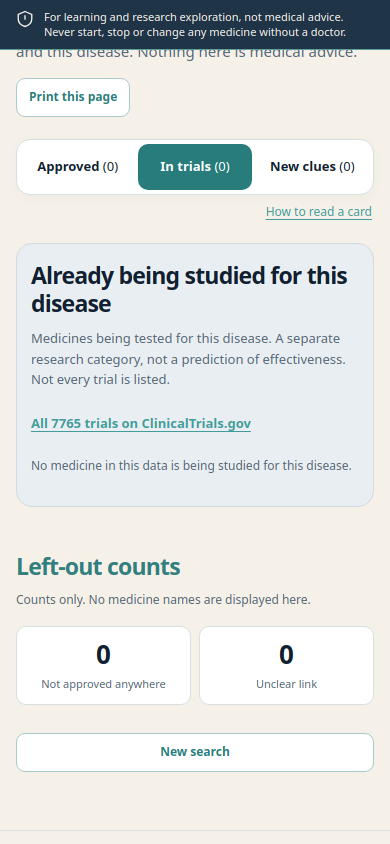
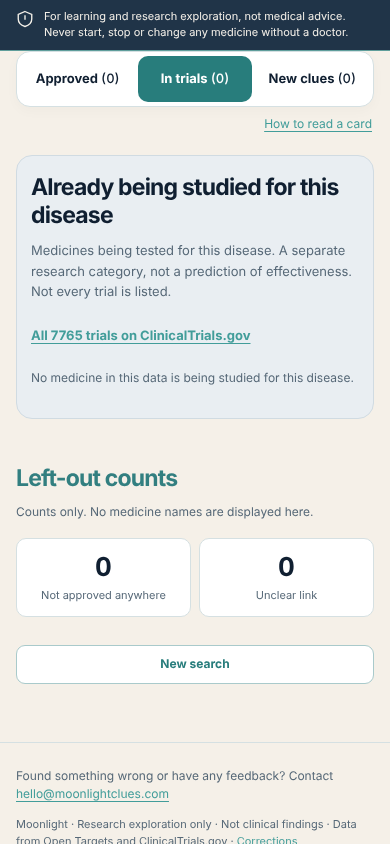
Ticket 3.32: move the report note into the facts fold, name ClinicalTrials.gov in the guide
Claude-Session: https://claude.ai/code/session_01RZLpZMH7oyLTozEU9KLkwi

diff --git a/web/index.html b/web/index.html
@@ -281,7 +281,6 @@ small,.fine{font-size:12px}.muted{color:var(--muted)}
 /* the key: ten small chips, a gold letter and a few words each. Two columns at every width,
    so every row is full (ticket 3.9). */
 .key{display:grid;grid-template-columns:repeat(2,minmax(0,1fr));gap:8px;margin-top:16px}
-.key-note{margin-top:10px;font-size:13px;line-height:1.5;color:var(--muted)}
 /* Ticket T11. A picture of one trial row, using the same classes as a row on a card. Not a link. */
 .guide-trial{background:var(--paper);border:1px solid var(--line);border-left:4px solid var(--teal);border-radius:var(--radius);padding:6px 16px 4px;margin-top:16px;box-shadow:0 4px 13px #101F3107}
 .guide-trial-line{margin:10px 0 0;color:var(--muted);font-size:14px;line-height:1.45}
@@ -657,7 +656,6 @@ body.registering>:not(.register){display:none!important}
         <li><span class="k" aria-hidden="true">I</span><span>Where the fact comes from</span></li>
         <li><span class="k" aria-hidden="true">J</span><span>Tell us if something is wrong</span></li>
       </ul>
-      <p class="key-note">We read every report.<br>Nothing about you is kept.</p>
     </section>
 
     <section aria-labelledby="guide-limits-title">
@@ -683,10 +681,11 @@ body.registering>:not(.register){display:none!important}
       <details class="wider-box">
         <summary id="guide-doctors-title">For doctors: how far to trust each part</summary>
         <ul class="limits">
-          <li><div><b>Source.</b> <span>Open Targets Platform.</span></div></li>
+          <li><div><b>Source.</b> <span>Open Targets Platform. Trial details from ClinicalTrials.gov.</span></div></li>
           <li><div><b>“Approved”.</b> <span>In at least one country, per the database. Not a measure of efficacy.</span></div></li>
           <li><div><b>Left out.</b> <span>Withdrawn anywhere, or approved nowhere: counted, never named. Unclear link to the disease: counted separately.</span></div></li>
           <li><div><b>Wider and narrower diseases.</b> <span>Shown with a label, each in its own folded box.</span></div></li>
+          <li><div><b>Trials.</b> <span>Matched to a medicine by its exact name. A finished trial is a record, not a result.</span></div></li>
           <li><div><b>Known gaps.</b> <span>A missing medicine may be withdrawn somewhere, filed further away, or not recorded yet.</span></div></li>
           <li><div><b>Weak proof.</b> <span>Japan-list-only approvals say so. Approvals with no regulator record say so. Confirmed mistakes carry a red warning.</span></div></li>
           <li><div><b>Ranking.</b> <span>Link strength across the top 25 proteins. One protein machine counts once.</span></div></li>
@@ -698,9 +697,11 @@ body.registering>:not(.register){display:none!important}
         <summary id="guide-facts-title">Where the facts come from</summary>
         <ul class="limits">
           <li><div><b>Facts.</b> <span>Open Targets Platform, an open research database.</span></div></li>
+          <li><div><b>Trials.</b> <span>ClinicalTrials.gov, the US public register of clinical studies.</span></div></li>
           <li><div><b>Words.</b> <span>What you type is sent to Gemini, so type no names or private details.</span></div></li>
           <li><div><b>Visits.</b> <span>Counted with Umami. No cookies. Never the disease or anything you type.</span></div></li>
           <li><div><b>Protein descriptions.</b> <span>Written by UniProt, read through Open Targets. CC BY 4.0.</span></div></li>
+          <li><div><b>Reports.</b> <span>We read every report. Nothing about you is kept.</span></div></li>
         </ul>
       </details>
     </div>

diff --git a/tests/test_guide_report_trials_3_32.py b/tests/test_guide_report_trials_3_32.py
@@ -1,0 +1,149 @@
+"""Ticket 3.32. Two fixes to the "how to read" guide, from Shreshth's phone pass.
+
+1. The floating report note under the A to J key is gone. Its words are now the
+   last line of "Where the facts come from".
+2. ClinicalTrials.gov is named as a source, in both folded parts.
+
+Every new line is checked word for word. The page is read from the file; the
+browser check opens it at 390 px with every network call refused. No network.
+"""
+
+import json
+import re
+import shutil
+import subprocess
+from pathlib import Path
+
+import pytest
+
+from test_api import guide_of, plain
+from test_condensed_guide import DOCTORS_TITLE, FACTS_TITLE, fold, lines_of
+
+ROOT = Path(__file__).resolve().parent.parent
+PAGE_FILE = ROOT / "web" / "index.html"
+PAGE = PAGE_FILE.read_text(encoding="utf-8")
+GUIDE = guide_of(PAGE)
+
+DOCTORS_NEW = [
+    ("Source.", "Open Targets Platform. Trial details from ClinicalTrials.gov."),
+    ("Trials.", "Matched to a medicine by its exact name. A finished trial is a record, not a result."),
+]
+FACTS_NEW = [
+    ("Trials.", "ClinicalTrials.gov, the US public register of clinical studies."),
+    ("Reports.", "We read every report. Nothing about you is kept."),
+]
+
+
+def test_the_doctors_fold_has_the_new_source_line_and_the_new_trials_line_in_place():
+    lines = lines_of(fold(GUIDE, DOCTORS_TITLE)[1])
+    labels = [label for label, _ in lines]
+    assert lines[labels.index("Source.")] == DOCTORS_NEW[0]
+    assert lines[labels.index("Trials.")] == DOCTORS_NEW[1]
+    assert labels.index("Trials.") == labels.index("Wider and narrower diseases.") + 1
+    assert labels.count("Trials.") == 1 and len(lines) == 9
+
+
+def test_the_facts_fold_has_the_trials_line_after_facts_and_the_report_line_last():
+    lines = lines_of(fold(GUIDE, FACTS_TITLE)[1])
+    labels = [label for label, _ in lines]
+    assert lines[labels.index("Facts.") + 1] == FACTS_NEW[0]
+    assert lines[-1] == FACTS_NEW[1]
+    assert labels.count("Reports.") == 1 and len(lines) == 6
+
+
+def test_the_new_lines_are_written_once_each_in_the_lists_own_style():
+    for label, words in DOCTORS_NEW[1:] + FACTS_NEW:
+        assert "<li><div><b>%s</b> <span>%s</span></div></li>" % (label, words) in PAGE
+    assert PAGE.count("We read every report. Nothing about you is kept.") == 1
+
+
+def test_no_key_note_is_left_in_the_page_or_its_styles():
+    assert "key-note" not in PAGE
+    assert "We read every report.<br>" not in PAGE
+
+
+def test_the_key_is_the_last_thing_in_the_card_part():
+    card_part = GUIDE[GUIDE.index('id="guide-card"'):]
+    card_part = card_part[:card_part.index("</section>")]
+    assert re.search(r"</ul>\s*$", card_part)
+    key = card_part[card_part.index('<ul class="key">'):]
+    assert re.findall(r'aria-hidden="true">([A-Z])</span>', key)[-1] == "J"
+
+
+BROWSER_SCRIPT = r"""
+"use strict";
+const fs = require("fs");
+const { chromium } = require("playwright");
+const PAGE = fs.readFileSync(process.argv[1], "utf-8");
+const SITE = "http://moonlight.test";
+(async () => {
+  const browser = await chromium.launch();
+  const context = await browser.newContext({ viewport: { width: 390, height: 844 } });
+  const page = await context.newPage();
+  const errors = [];
+  page.on("pageerror", problem => errors.push(String(problem)));
+  await context.route("**/*", route => {
+    const url = route.request().url();
+    if (url === SITE + "/" || url.startsWith(SITE + "/?"))
+      return route.fulfill({ contentType: "text/html; charset=utf-8", body: PAGE });
+    return route.abort();
+  });
+  await page.goto(SITE + "/?guide=1");
+  await page.waitForSelector("#guide", { state: "visible" });
+  const shut = await page.evaluate(() => document.documentElement.scrollWidth > document.documentElement.clientWidth);
+  await page.evaluate(() => document.querySelectorAll("#guide details").forEach(d => { d.open = true; }));
+  await page.waitForTimeout(200);
+  const out = await page.evaluate(() => {
+    const key = document.querySelector("#guide-card .key");
+    const lines = id => [...document.getElementById(id).closest("details").querySelectorAll("li")]
+      .map(li => li.innerText.replace(/\s+/g, " ").trim());
+    return {
+      keyLast: key.lastElementChild.innerText.replace(/\s+/g, " ").trim(),
+      keyNext: key.nextElementSibling && key.nextElementSibling.tagName,
+      keyNoteCount: document.querySelectorAll(".key-note").length,
+      sectionEndsWithKey: document.querySelector("#guide-card").lastElementChild === key,
+      doctors: lines("guide-doctors-title"),
+      facts: lines("guide-facts-title"),
+      sideways: document.documentElement.scrollWidth > document.documentElement.clientWidth,
+      wide: [...document.querySelectorAll("#guide *")].filter(el => el.getBoundingClientRect().right > innerWidth + 0.5).length,
+    };
+  });
+  out.sidewaysShut = shut;
+  out.errors = errors;
+  await browser.close();
+  console.log(JSON.stringify(out));
+})().catch(problem => { console.error(problem); process.exit(1); });
+"""
+
+
+@pytest.fixture(scope="module")
+def seen():
+    node = shutil.which("node")
+    if not node or subprocess.run(
+            [node, "-e", "require('playwright')"], capture_output=True).returncode:
+        pytest.skip("needs node with playwright to open a real browser")
+    run = subprocess.run([node, "-e", BROWSER_SCRIPT, str(PAGE_FILE)],
+                         capture_output=True, text=True, timeout=240, cwd=str(ROOT))
+    assert run.returncode == 0, run.stderr[-3000:]
+    return json.loads(run.stdout)
+
+
+def test_browser_390_the_key_ends_at_j_with_nothing_under_it(seen):
+    assert seen["errors"] == []
+    assert seen["keyLast"] == "J Tell us if something is wrong"
+    assert seen["keyNext"] is None and seen["sectionEndsWithKey"]
+    assert seen["keyNoteCount"] == 0
+
+
+def test_browser_390_both_folds_show_the_new_lines_word_for_word(seen):
+    for label, words in DOCTORS_NEW:
+        assert "%s %s" % (label, words) in seen["doctors"]
+    for label, words in FACTS_NEW:
+        assert "%s %s" % (label, words) in seen["facts"]
+    assert seen["facts"][-1] == "Reports. We read every report. Nothing about you is kept."
+
+
+def test_browser_390_no_sideways_scroll_folds_shut_or_open(seen):
+    assert not seen["sidewaysShut"]
+    assert not seen["sideways"]
+    assert seen["wide"] == 0

diff --git a/tests/test_condensed_guide.py b/tests/test_condensed_guide.py
@@ -76,11 +76,14 @@ CANNOT = [
 ]
 DOCTORS_TITLE = "For doctors: how far to trust each part"
 DOCTORS = [
-    ("Source.", "Open Targets Platform."),
+    # Ticket 3.32: ClinicalTrials.gov is named as the source of trial details.
+    ("Source.", "Open Targets Platform. Trial details from ClinicalTrials.gov."),
     ("“Approved”.", "In at least one country, per the database. Not a measure of efficacy."),
     ("Left out.", "Withdrawn anywhere, or approved nowhere: counted, never named. "
                   "Unclear link to the disease: counted separately."),
     ("Wider and narrower diseases.", "Shown with a label, each in its own folded box."),
+    # Ticket 3.32: new line.
+    ("Trials.", "Matched to a medicine by its exact name. A finished trial is a record, not a result."),
     ("Known gaps.", "A missing medicine may be withdrawn somewhere, filed further away, "
                     "or not recorded yet."),
     ("Weak proof.", "Japan-list-only approvals say so. Approvals with no regulator "
@@ -93,11 +96,15 @@ NOT_REFERENCE = "Moonlight is not a prescribing reference."
 FACTS_TITLE = "Where the facts come from"
 FACTS = [
     ("Facts.", "Open Targets Platform, an open research database."),  # ticket T0
+    # Ticket 3.32: new line, straight after Facts.
+    ("Trials.", "ClinicalTrials.gov, the US public register of clinical studies."),
     # Ticket 3.8, commit B: the sentence about explanations is no longer true and is gone.
     ("Words.", "What you type is sent to Gemini, so type no names or private details."),
     ("Visits.", "Counted with Umami. No cookies. Never the disease or anything you type."),
     # Ticket 3.8: Kashish's credit line, 23 Nov 2026.
     ("Protein descriptions.", "Written by UniProt, read through Open Targets. CC BY 4.0."),
+    # Ticket 3.32: the report note moved here from under the A to J key. Last line.
+    ("Reports.", "We read every report. Nothing about you is kept."),
 ]
 STRIP = "Test a condition you know well. Tell us what is missing or wrong."
 
@@ -282,14 +289,14 @@ def test_each_fold_is_closed_at_first_and_uses_the_wider_group_pattern(page, gui
     assert "tabindex" not in guide
 
 
-def test_the_fold_for_doctors_holds_these_eight_lines_then_the_sentence_set_apart(guide):
+def test_the_fold_for_doctors_holds_these_nine_lines_then_the_sentence_set_apart(guide):
     _, inside = fold(guide, DOCTORS_TITLE)
     assert lines_of(inside) == DOCTORS
     assert inside.index("</ul>") < inside.index('<p class="not-reference">%s</p>' % NOT_REFERENCE)
     assert guide.count(NOT_REFERENCE) == 1
 
 
-def test_the_fold_of_sources_holds_these_four_lines(guide):
+def test_the_fold_of_sources_holds_these_six_lines(guide):
     _, inside = fold(guide, FACTS_TITLE)
     assert lines_of(inside) == FACTS
 

diff --git a/tests/test_guide_and_front_page.py b/tests/test_guide_and_front_page.py
@@ -66,11 +66,14 @@ MAIL_LINK = '<a href="mailto:%s">%s</a>' % (ADDRESS, ADDRESS)
 DOCTORS = "For doctors: how far to trust each part"
 # Kashish's words, 16 Nov. Each was checked against the code on main.
 DOCTOR_POINTS = [
-    "Source. Open Targets Platform.",
+    # Ticket 3.32: ClinicalTrials.gov named as the source of trial details.
+    "Source. Open Targets Platform. Trial details from ClinicalTrials.gov.",
     "“Approved”. In at least one country, per the database. Not a measure of efficacy.",
     "Left out. Withdrawn anywhere, or approved nowhere: counted, never named. "
     "Unclear link to the disease: counted separately.",
     "Wider and narrower diseases. Shown with a label, each in its own folded box.",
+    # Ticket 3.32: new line.
+    "Trials. Matched to a medicine by its exact name. A finished trial is a record, not a result.",
     "Known gaps. A missing medicine may be withdrawn somewhere, filed further away, "
     "or not recorded yet.",
     "Weak proof. Japan-list-only approvals say so. Approvals with no regulator "
@@ -239,7 +242,7 @@ def test_for_doctors_holds_kashishs_points_word_for_word_in_the_same_list_style(
     assert section.count('<ul class="limits">') == 1
     items = re.findall(r"(?s)<li>(.*?)</li>", section)
     assert [plain(item) for item in items] == DOCTOR_POINTS
-    assert len(items) == 8
+    assert len(items) == 9
     for item, words in zip(items, DOCTOR_POINTS):  # the first sentence is the bold title
         assert plain(re.search(r"<b>(.*?)</b>", item).group(1)) == words.split(". ")[0] + "."
 

diff --git a/tests/test_guide_card_3_9.py b/tests/test_guide_card_3_9.py
@@ -86,13 +86,15 @@ def test_the_legend_holds_kashishs_signed_words_one_line_per_letter(guide):
     assert key_of(guide).count("<li>") == len(LEGEND)
 
 
-def test_the_report_note_is_under_the_legend_word_for_word(guide):
+# Ticket 3.32: the note moved into the folded "Where the facts come from" (see
+# test_guide_report_trials_3_32.py). This test used to be
+# test_the_report_note_is_under_the_legend_word_for_word.
+def test_nothing_is_under_the_legend_the_key_ends_at_j(guide):
     card_part = guide[guide.index('id="guide-card"'):]
     card_part = card_part[:card_part.index("</section>")]
-    note = re.search(r'(?s)</ul>\s*<p class="key-note">(.*?)</p>\s*$', card_part)
-    assert note, "the note comes straight after the legend, last in the card part"
-    assert plain(note.group(1)) == REPORT_NOTE
-    assert note.group(1).count("<br>") == 1  # two lines, one sentence each
+    assert re.search(r'(?s)</ul>\s*$', card_part), "the legend is last in the card part"
+    assert "key-note" not in guide and "key-note" not in PAGE
+    assert REPORT_NOTE not in plain(card_part)
 
 
 def test_the_old_legend_words_are_gone(guide):

diff --git a/tests/test_api.py b/tests/test_api.py
@@ -1945,11 +1945,13 @@ def test_82_example_6_the_page_holds_the_guide_line_inside_the_guide(client):
 
 # Ticket 5.8: the lines are list items in a folded part now. This test used
 # to be test_82_the_guide_line_is_right_after_the_open_targets_paragraph.
-def test_82_the_guide_line_is_right_after_the_open_targets_line(client):
+def test_82_the_guide_line_is_right_after_the_open_targets_and_trials_lines(client):
     guide = guide_of(client.get("/").text)
     lines = [plain(line) for line in re.findall(r"(?s)<li>.*?</li>", guide)]
     place = lines.index("Words. " + GUIDE_LINE)
-    assert lines[place - 1] == "Facts. Open Targets Platform, an open research database."  # ticket T0
+    # Ticket 3.32: the new Trials line sits between Facts and Words.
+    assert lines[place - 2] == "Facts. Open Targets Platform, an open research database."  # ticket T0
+    assert lines[place - 1] == "Trials. ClinicalTrials.gov, the US public register of clinical studies."
 
 
 def test_82_the_safety_line_is_unchanged(client):

diff --git a/tests/test_card_words_3_10.py b/tests/test_card_words_3_10.py
@@ -324,7 +324,9 @@ def test_the_how_to_card_says_8_records():
 def test_the_report_link_keeps_its_name():
     assert '>Report</button>' in PAGE
     assert 'const REPORT_THANKS = "Thank you. We read every report.";' in PAGE
-    assert "We read every report.<br>Nothing about you is kept." in PAGE
+    # Ticket 3.32: the two-line note under the key moved into the guide's facts fold.
+    assert "We read every report.<br>Nothing about you is kept." not in PAGE
+    assert "<span>We read every report. Nothing about you is kept.</span>" in PAGE
 
 
 # ---- the tag's look, in the page's own styles ----
